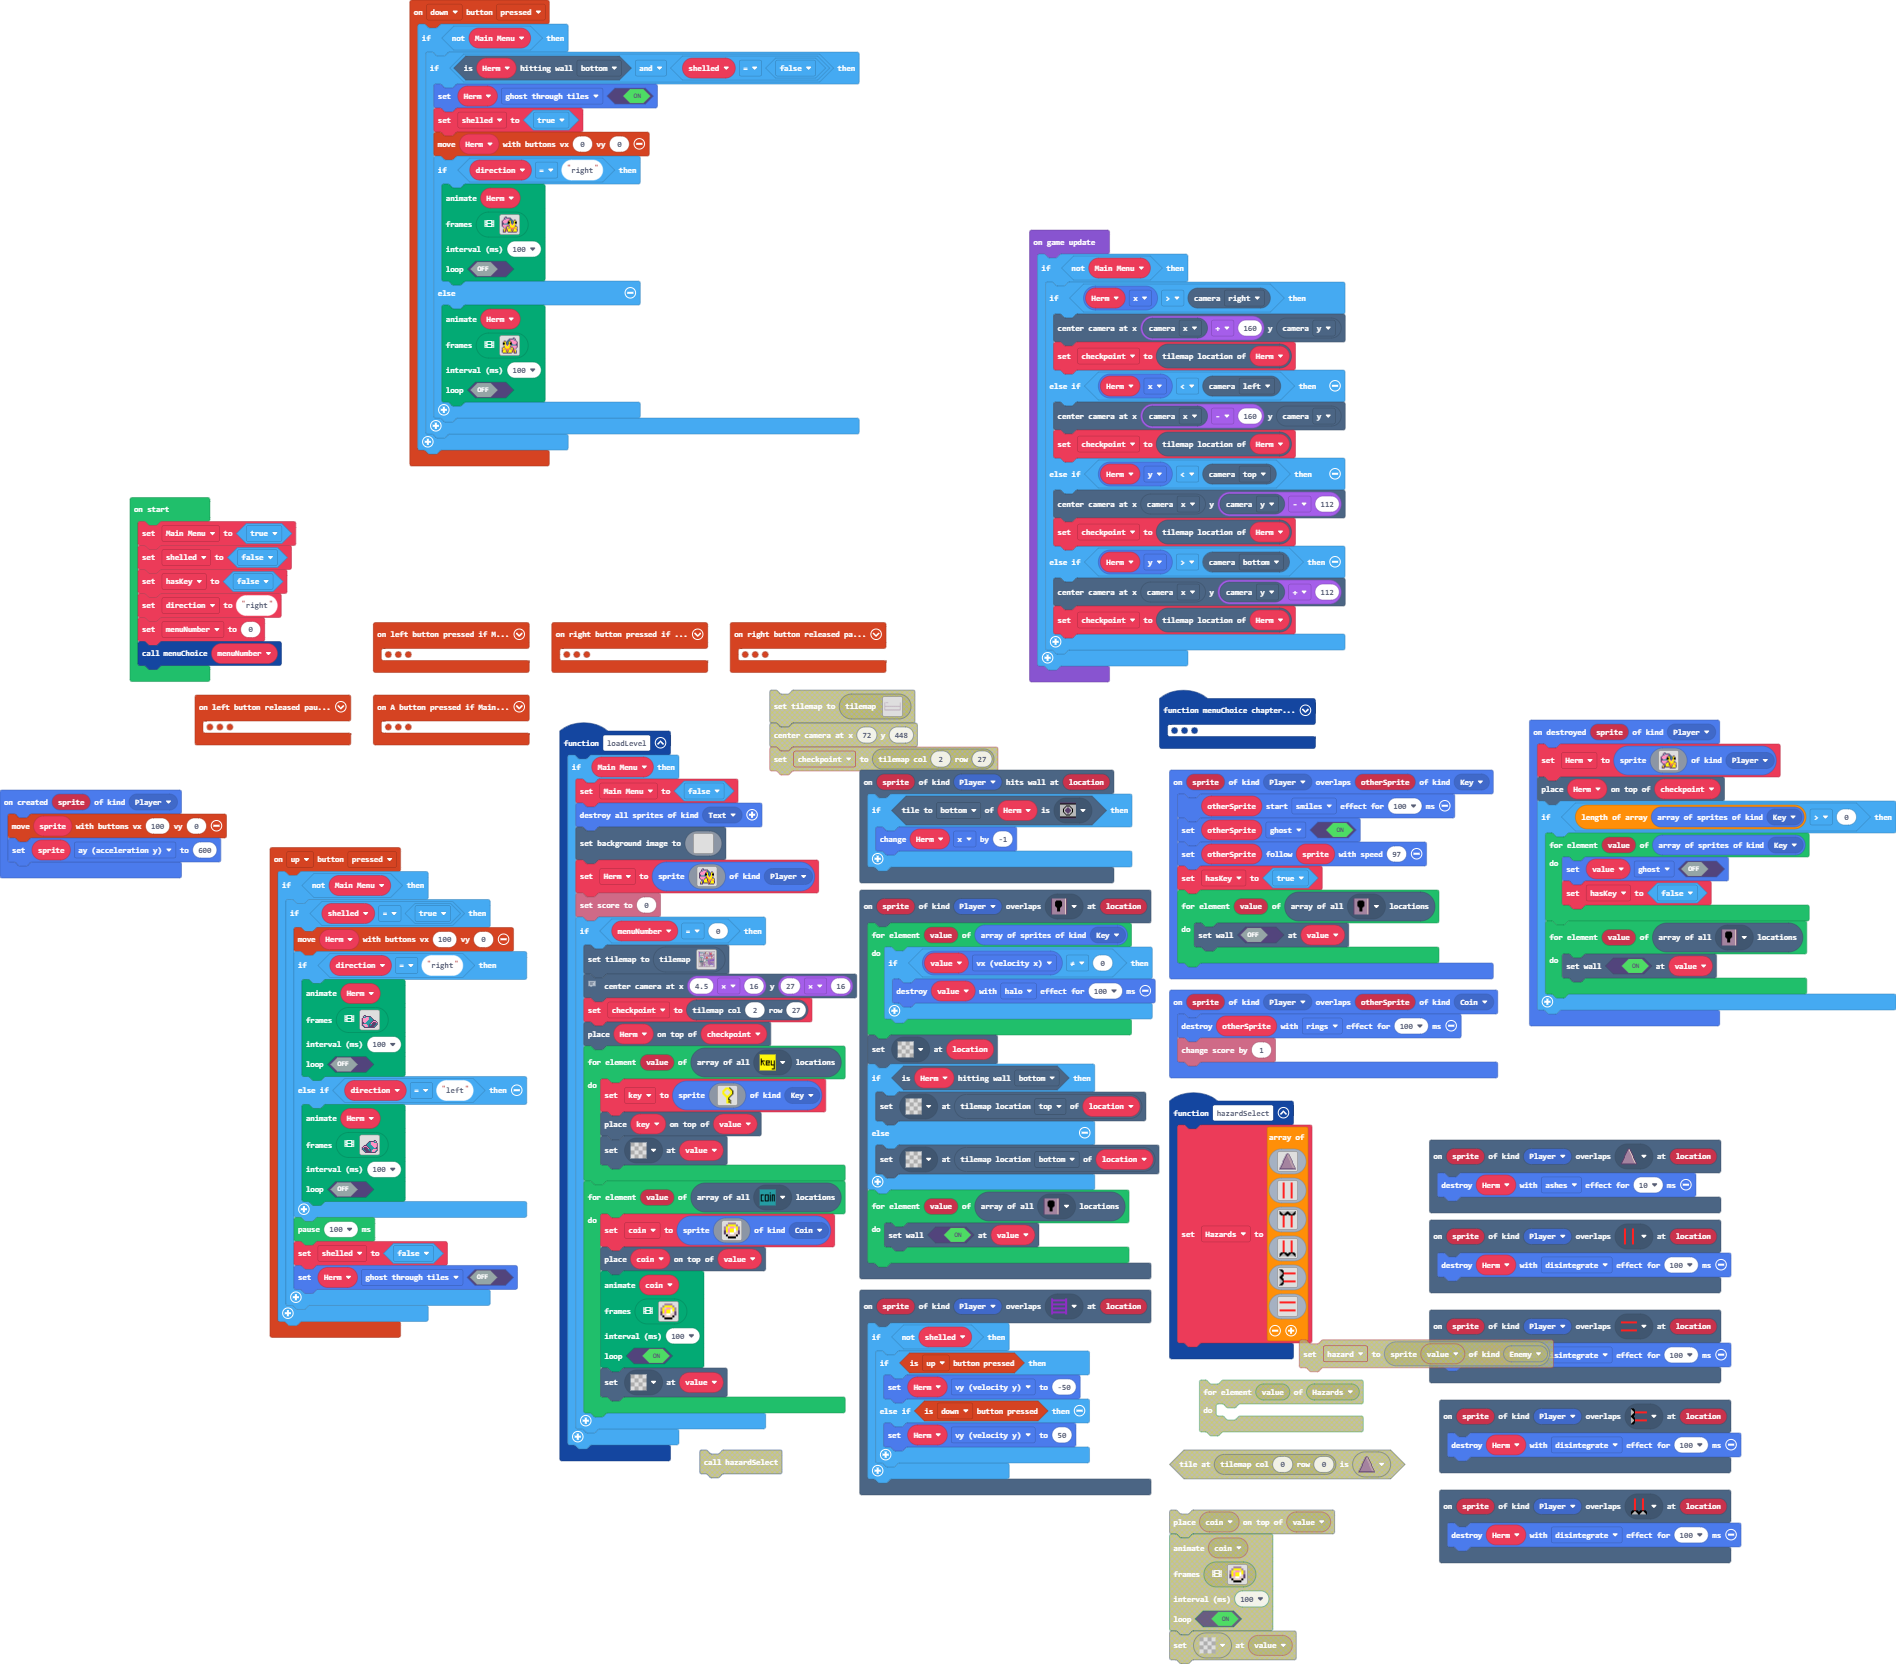
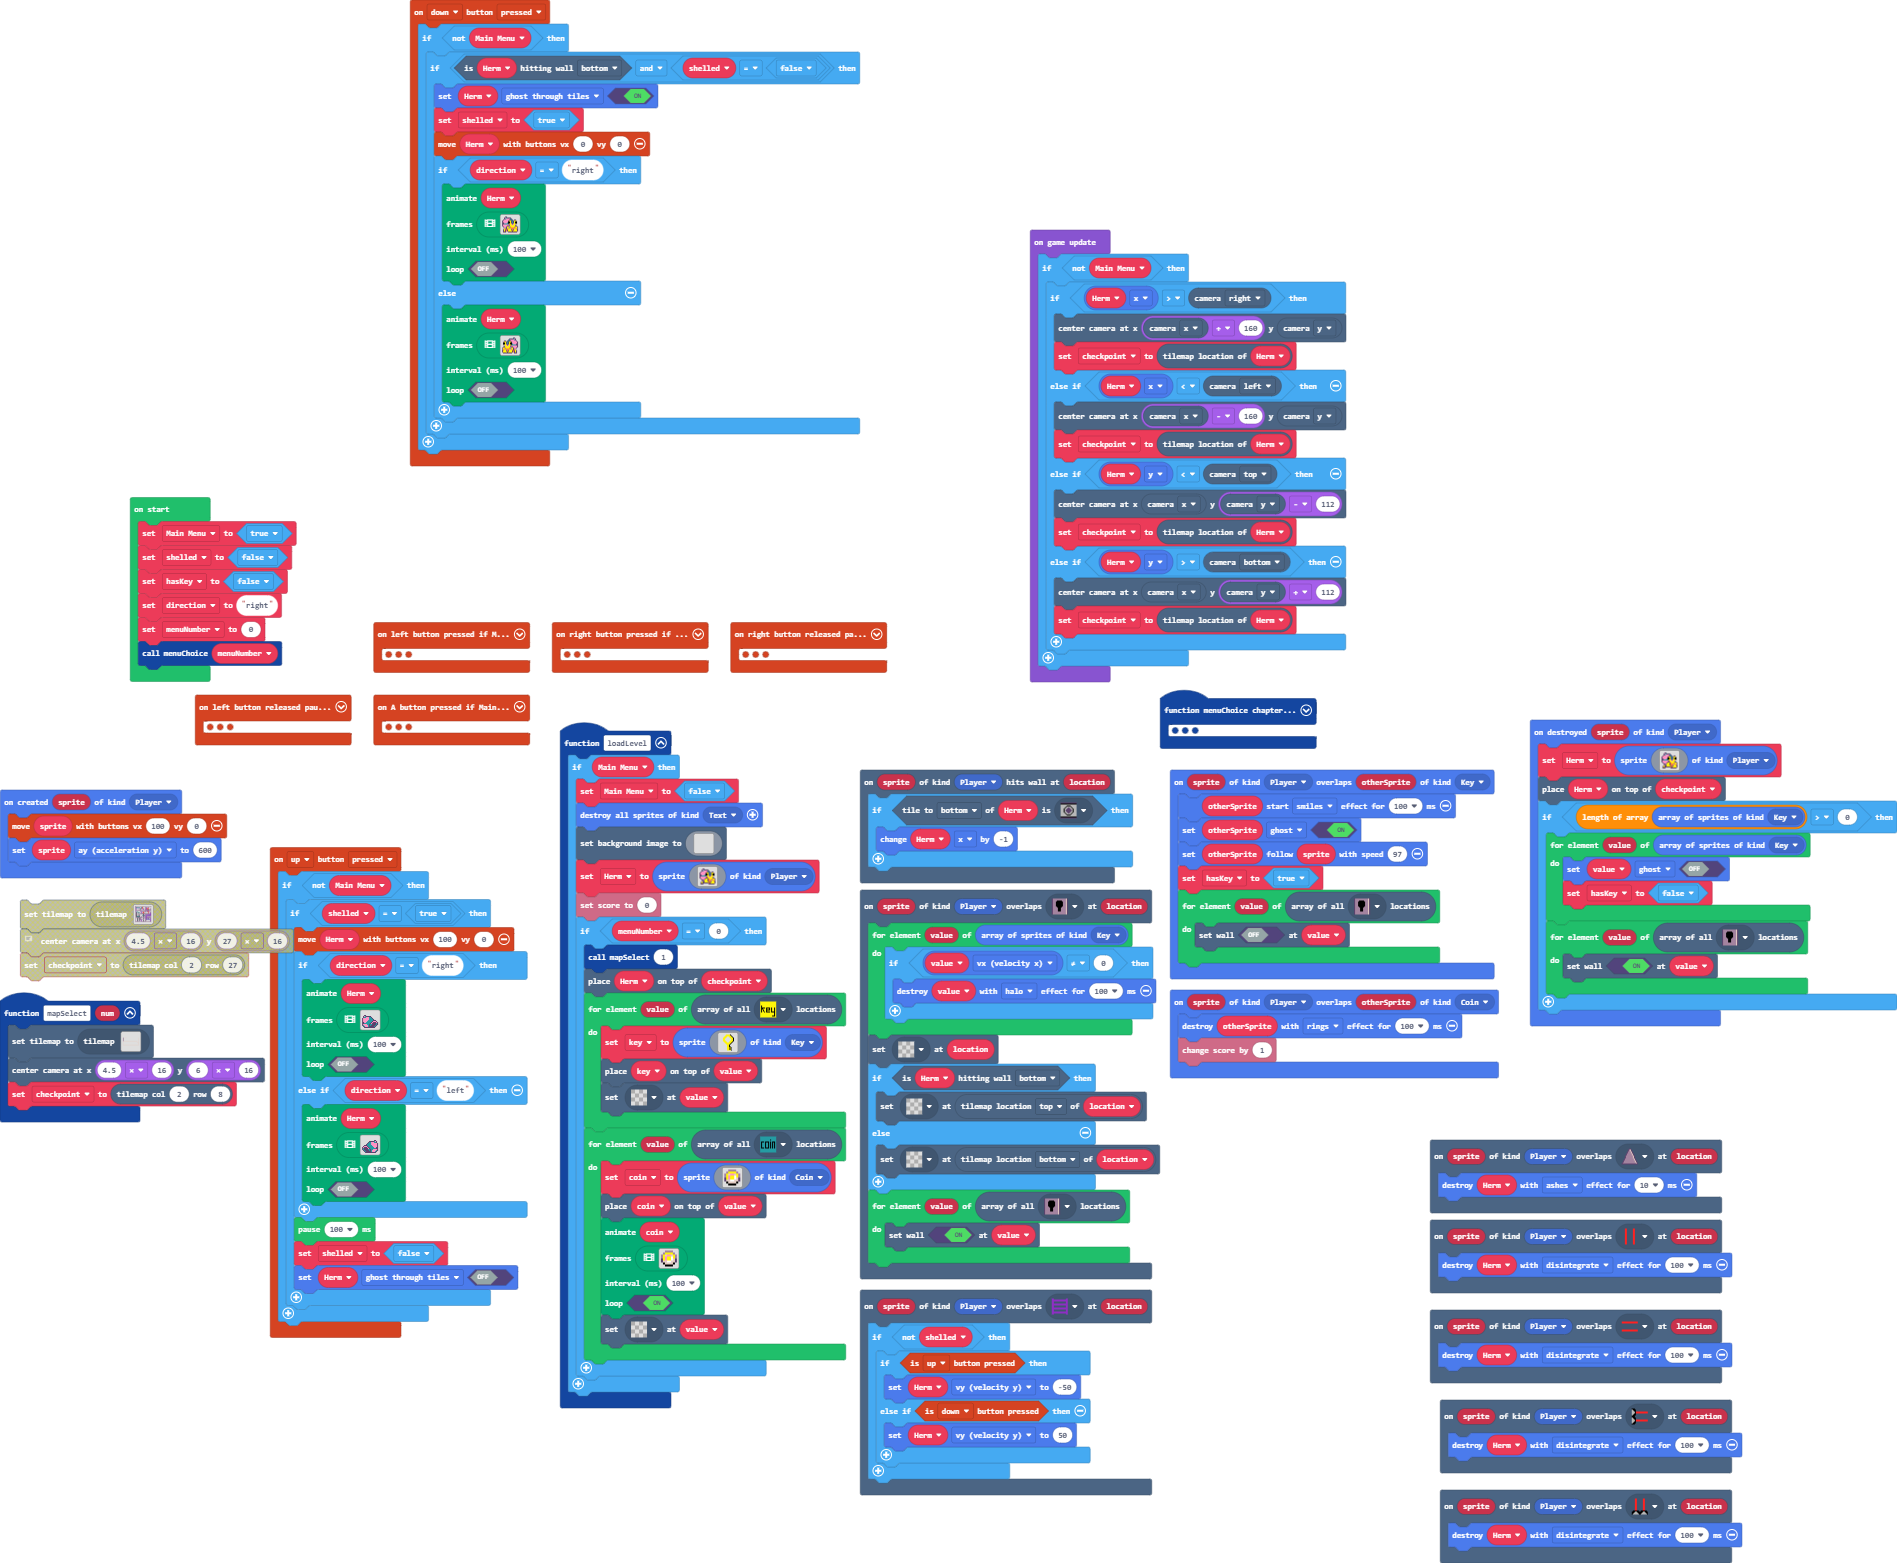
Update main.blocks, main.ts, tilemap.g.jres, tilemap.g.ts

diff --git a/main.ts b/main.ts
@@ -645,10 +645,7 @@ function loadLevel () {
             `, SpriteKind.Player)
         info.setScore(0)
         if (menuNumber == 0) {
-            tiles.setCurrentTilemap(tilemap`level2`)
-            // column at half of the room, same row as Herm.
-            scene.centerCameraAt(4.5 * 16, 27 * 16)
-            checkpoint = tiles.getTileLocation(2, 27)
+            mapSelect(1)
             tiles.placeOnTile(Herm, checkpoint)
             for (let value of tiles.getTilesByType(assets.tile`myTile2`)) {
                 key = sprites.create(img`
@@ -1102,118 +1099,6 @@ controller.right.onEvent(ControllerButtonEvent.Released, function () {
 scene.onOverlapTile(SpriteKind.Player, assets.tile`myTile10`, function (sprite, location) {
     sprites.destroy(Herm, effects.ashes, 10)
 })
-function hazardSelect () {
-    Hazards = [
-    img`
-        . . . . . . . c c . . . . . . . 
-        . . . . . . c b d c . . . . . . 
-        . . . . . . c b d c . . . . . . 
-        . . . . . c b b b d c . . . . . 
-        . . . . . c b b b d c . . . . . 
-        . . . . c b b b b b d c . . . . 
-        . . . . c b b b b b d c . . . . 
-        . . . c b b b b b b b d c . . . 
-        . . . c b b b b b b b d c . . . 
-        . . . c b b b b b b b d c . . . 
-        . . c b b b b b b b b b d c . . 
-        . . c b b b b b b b b b d c . . 
-        . c b b b b b b b b b b b d c . 
-        . c b b b b b b b b b b b d c . 
-        c b b b b b b b b b b b b b d c 
-        c c c c c c c c c c c c c c c c 
-        `,
-    img`
-        . . . 2 2 . . . . . . 2 2 . . . 
-        . . . 2 2 . . . . . . 2 2 . . . 
-        . . . 2 2 . . . . . . 2 2 . . . 
-        . . . 2 2 . . . . . . 2 2 . . . 
-        . . . 2 2 . . . . . . 2 2 . . . 
-        . . . 2 2 . . . . . . 2 2 . . . 
-        . . . 2 2 . . . . . . 2 2 . . . 
-        . . . 2 2 . . . . . . 2 2 . . . 
-        . . . 2 2 . . . . . . 2 2 . . . 
-        . . . 2 2 . . . . . . 2 2 . . . 
-        . . . 2 2 . . . . . . 2 2 . . . 
-        . . . 2 2 . . . . . . 2 2 . . . 
-        . . . 2 2 . . . . . . 2 2 . . . 
-        . . . 2 2 . . . . . . 2 2 . . . 
-        . . . 2 2 . . . . . . 2 2 . . . 
-        . . . 2 2 . . . . . . 2 2 . . . 
-        `,
-    img`
-        f e e e e e e f f e e e e e e f 
-        f f e e e e f f f f e e e e f f 
-        f f f e e f f f f f f e e f f f 
-        . f f f f f f . . f f f f f f . 
-        . . . 2 2 . . . . . . 2 2 . . . 
-        . . . 2 2 . . . . . . 2 2 . . . 
-        . . . 2 2 . . . . . . 2 2 . . . 
-        . . . 2 2 . . . . . . 2 2 . . . 
-        . . . 2 2 . . . . . . 2 2 . . . 
-        . . . 2 2 . . . . . . 2 2 . . . 
-        . . . 2 2 . . . . . . 2 2 . . . 
-        . . . 2 2 . . . . . . 2 2 . . . 
-        . . . 2 2 . . . . . . 2 2 . . . 
-        . . . 2 2 . . . . . . 2 2 . . . 
-        . . . 2 2 . . . . . . 2 2 . . . 
-        . . . 2 2 . . . . . . 2 2 . . . 
-        `,
-    img`
-        . . . 2 2 . . . . . . 2 2 . . . 
-        . . . 2 2 . . . . . . 2 2 . . . 
-        . . . 2 2 . . . . . . 2 2 . . . 
-        . . . 2 2 . . . . . . 2 2 . . . 
-        . . . 2 2 . . . . . . 2 2 . . . 
-        . . . 2 2 . . . . . . 2 2 . . . 
-        . . . 2 2 . . . . . . 2 2 . . . 
-        . . . 2 2 . . . . . . 2 2 . . . 
-        . . . 2 2 . . . . . . 2 2 . . . 
-        . . . 2 2 . . . . . . 2 2 . . . 
-        . . . 2 2 . . . . . . 2 2 . . . 
-        . . . 2 2 . . . . . . 2 2 . . . 
-        . f f f f f f . . f f f f f f . 
-        f f f e e f f f f f f e e f f f 
-        f f e e e e f f f f e e e e f f 
-        f e e e e e e f f e e e e e e f 
-        `,
-    img`
-        f f f . . . . . . . . . . . . . 
-        e f f f . . . . . . . . . . . . 
-        e e f f . . . . . . . . . . . . 
-        e e e f 2 2 2 2 2 2 2 2 2 2 2 2 
-        e e e f 2 2 2 2 2 2 2 2 2 2 2 2 
-        e e f f . . . . . . . . . . . . 
-        e f f f . . . . . . . . . . . . 
-        f f f . . . . . . . . . . . . . 
-        f f f . . . . . . . . . . . . . 
-        e f f f . . . . . . . . . . . . 
-        e e f f . . . . . . . . . . . . 
-        e e e f 2 2 2 2 2 2 2 2 2 2 2 2 
-        e e e f 2 2 2 2 2 2 2 2 2 2 2 2 
-        e e f f . . . . . . . . . . . . 
-        e f f f . . . . . . . . . . . . 
-        f f f . . . . . . . . . . . . . 
-        `,
-    img`
-        . . . . . . . . . . . . . . . . 
-        . . . . . . . . . . . . . . . . 
-        . . . . . . . . . . . . . . . . 
-        2 2 2 2 2 2 2 2 2 2 2 2 2 2 2 2 
-        2 2 2 2 2 2 2 2 2 2 2 2 2 2 2 2 
-        . . . . . . . . . . . . . . . . 
-        . . . . . . . . . . . . . . . . 
-        . . . . . . . . . . . . . . . . 
-        . . . . . . . . . . . . . . . . 
-        . . . . . . . . . . . . . . . . 
-        . . . . . . . . . . . . . . . . 
-        2 2 2 2 2 2 2 2 2 2 2 2 2 2 2 2 
-        2 2 2 2 2 2 2 2 2 2 2 2 2 2 2 2 
-        . . . . . . . . . . . . . . . . 
-        . . . . . . . . . . . . . . . . 
-        . . . . . . . . . . . . . . . . 
-        `
-    ]
-}
 sprites.onDestroyed(SpriteKind.Player, function (sprite) {
     Herm = sprites.create(img`
         . . . c c . . . . . . . . . . . 
@@ -1244,6 +1129,11 @@ sprites.onDestroyed(SpriteKind.Player, function (sprite) {
         }
     }
 })
+function mapSelect (num: number) {
+    tiles.setCurrentTilemap(tilemap`level6`)
+    scene.centerCameraAt(4.5 * 16, 6 * 16)
+    checkpoint = tiles.getTileLocation(2, 8)
+}
 sprites.onCreated(SpriteKind.Player, function (sprite) {
     controller.moveSprite(sprite, 100, 0)
     sprite.ay = 600
@@ -1254,7 +1144,6 @@ scene.onOverlapTile(SpriteKind.Player, assets.tile`myTile14`, function (sprite, 
 scene.onOverlapTile(SpriteKind.Player, assets.tile`myTile11`, function (sprite, location) {
     sprites.destroy(Herm, effects.disintegrate, 100)
 })
-let Hazards: Image[] = []
 let coin: Sprite = null
 let key: Sprite = null
 let checkpoint: tiles.Location = null

diff --git a/tilemap.g.ts b/tilemap.g.ts
@@ -148,27 +148,27 @@ namespace myTiles {
 . . . . . . . . . . . . . . . . 
 `, [myTiles.transparency16], TileScale.Sixteen);
             case "level6":
-            case "level6":return tiles.createTilemap(hex`2800130001010000010101010100000000000000000000000000000000000000000000000000000000000001010000000000000000000000000000000000000000000000000000000000000000000000000000010100000000000000000000000000000000000000000000000000000000000000000000000000000101000000000000000000000000000000000000000000000000000000000000000000000000000001010000000000000000000000000000000000000000000000000000000000000000000000000000010100000000000000000000000000000000000000000000000000000000000000000000000000000101000000000000000000000000000000000000000000000000000000000000000000000000000001010000000000000000000000000000000000000000000000000000000000000000000000000000010100000000000000000000000000000000000000000000000000000000000000000000000000000101010101010101010101010101010101010101010101010101010101010101010101010101010101010000000000000000000000000000000000000000000000000000000000000000000000000000010100000000000000000000000000000000000000000000000000000000000000000000000000000101000000000000000000000000000000000000000000000000000000000000000000000000000001010000000000000000000000000000000000000000000000000000000000000000000000000000010100000000000000000000000000000000000000000000000000000000000000000000000000000101000000000000000000000000000000000000000000000000000000000000000000000000000001010000000000000000000000000000000000000000000000000000000000000000000000000000010100000000000000000000000000000000000000000000000000000000000000000000000000000101010101010101010101010101010101010101010101010101010101010101010101010101010101`, img`
+            case "level6":return tiles.createTilemap(hex`2800130002020000010101010100000000000000000000000000000000000000000000000000000000000001020200000000000000000000000000000000000000000000000000000000000000000000000000010202000000000000000000000000000000000000000000000000000000000000000000000000000102020000000000000000000000000000000000000000000000000000000000000000000000000001020200000000000000000000000000000000000000000000000000000000000000000000000000010202000000000000000000000000000000000000000000000000000000000000000000000000000102020000000000000000000000000000000000000000000000000000000000000000000000000001020200000000000000000000000000000000000000000000000000000000000000000000000000010202000000000000000000000000000000000000000000000000000000000000000000000000000101010101010101010101010101010101010101010101010101010101010101010101010000000001010000000000000000000000000000000000000000000000000000000000000000000001000000010100000000000000000000000000000000000000000000000000000000000000000000000100000101000000000000000000000000000000000000000000000000000000000000000000000000010001010000000000000000000000000000000000000000000000000000000000000000000000000001010100000000000000000000000000000000000000000000000000000000000000000000000000000101000000000000000000000000000000000000000000000000000000000000000000000000000001010000000000000000000000000000000000000000000000000000000000000000000000000000010100000000000000000000000000000000000000000000000000000000000000000000000000000101010101010101010101010101010101010101010101010101010101010101010101010101010101`, img`
 22..22222..............................2
-2......................................2
-2......................................2
-2......................................2
-2......................................2
+22.....................................2
+22.....................................2
+22.....................................2
+22.....................................2
+22.....................................2
+22.....................................2
+22.....................................2
+22.....................................2
+22222222222222222222222222222222222....2
+2..................................2...2
+2...................................2..2
+2....................................2.2
+2.....................................22
 2......................................2
 2......................................2
 2......................................2
 2......................................2
 2222222222222222222222222222222222222222
-2......................................2
-2......................................2
-2......................................2
-2......................................2
-2......................................2
-2......................................2
-2......................................2
-2......................................2
-2222222222222222222222222222222222222222
-`, [myTiles.transparency16,myTiles.tile1], TileScale.Sixteen);
+`, [myTiles.transparency16,sprites.castle.tilePath5,myTiles.tile1], TileScale.Sixteen);
         }
         return null;
     })
